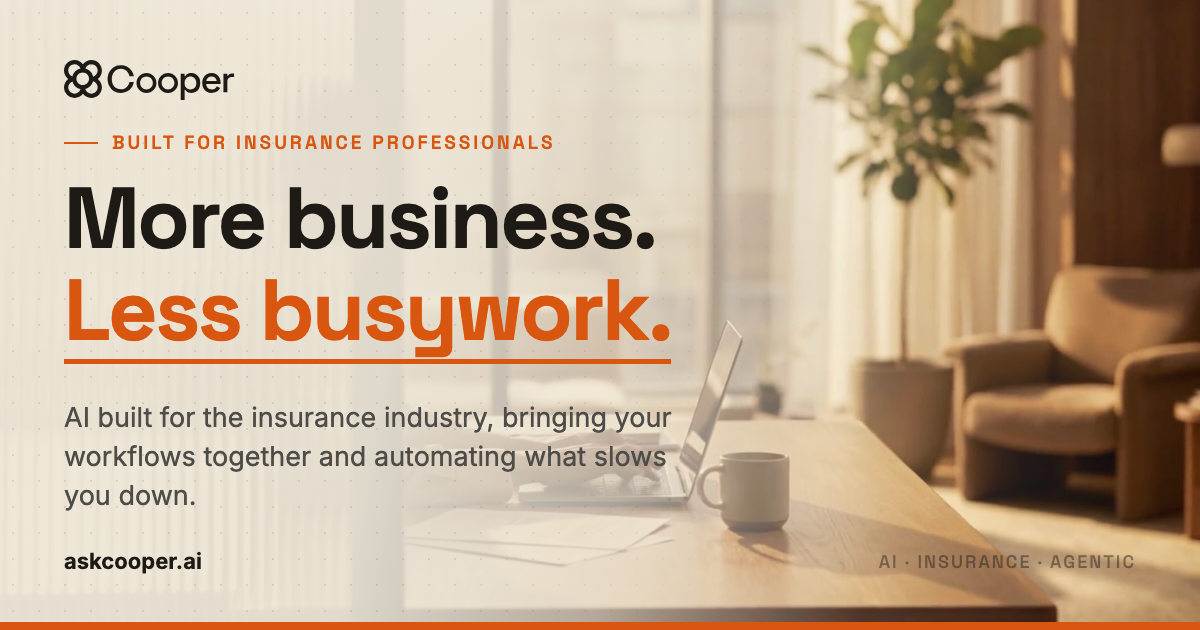
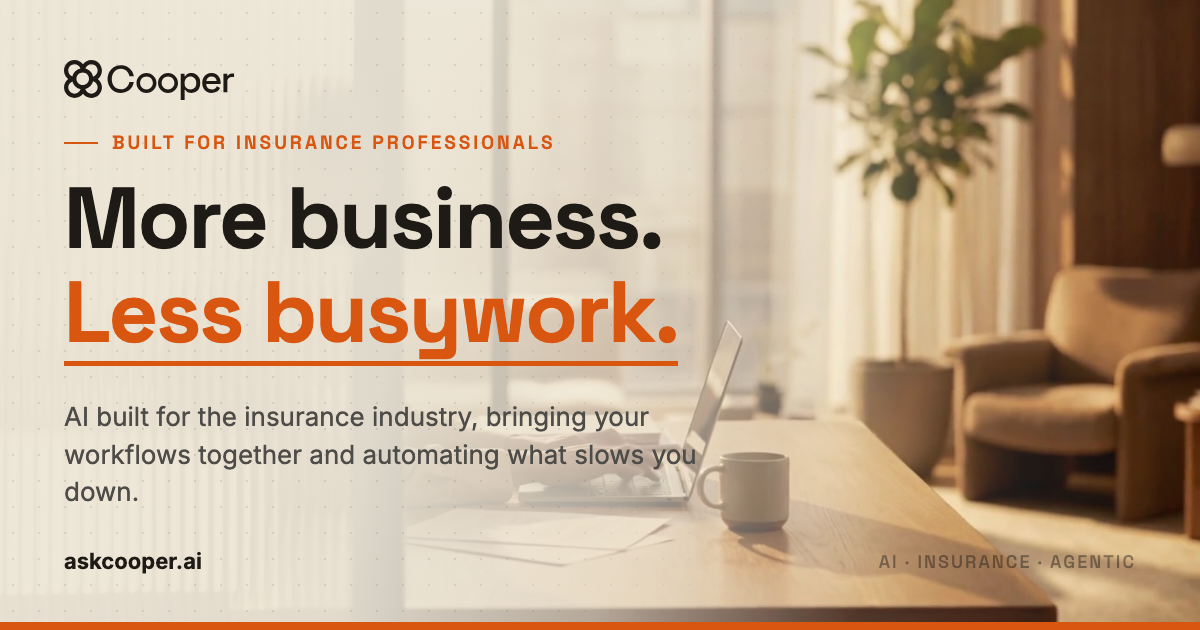
OG: per-product images for all 5 personas + build-time prerender
- scripts/og/generate.cjs: reproducible generator for the 6 OG images (Home +
  5 personas), each = the page's hero frame under a cream veil with tailored
  editorial copy in the reference vibe. Output committed to public/images/og/.
- Persona pages point og:image at their dedicated /images/og/{slug}.png.
- scripts/prerender.cjs (runs from npm build): bakes per-route title,
  description, canonical and OG/Twitter tags into static HTML per route, so
  social scrapers (which don't run JS) get the right preview. cleanUrls in
  vercel.json serves those files ahead of the SPA catch-all rewrite.

Changed region(s): [[0.0617, 0.4222, 0.5858, 0.6032], [0.0308, 0.6333, 0.5858, 0.8143], [0.1542, 0.3016, 0.555, 0.3921]]

diff --git a/cooper-site/src/components/PersonaPage.tsx b/cooper-site/src/components/PersonaPage.tsx
@@ -169,9 +169,9 @@ export default function PersonaPage() {
       : 'Page not found — Cooper',
     description: persona?.subtitle,
     canonicalPath: persona ? `/personas/${persona.slug}` : undefined,
-    // Per-product Open Graph image. Defaults to each persona's hero art; swap to
-    // dedicated 1200×630 OG images at /images/og/{slug}.png when design delivers.
-    image: persona ? getHeroImage(persona.slug) : undefined,
+    // Per-product Open Graph image (dedicated 1200×630 art per persona,
+    // generated by scripts/og/generate.cjs).
+    image: persona ? `/images/og/${persona.slug}.png` : undefined,
     noindex: !persona,
     jsonLd: persona ? personaJsonLd(persona) : undefined,
   })